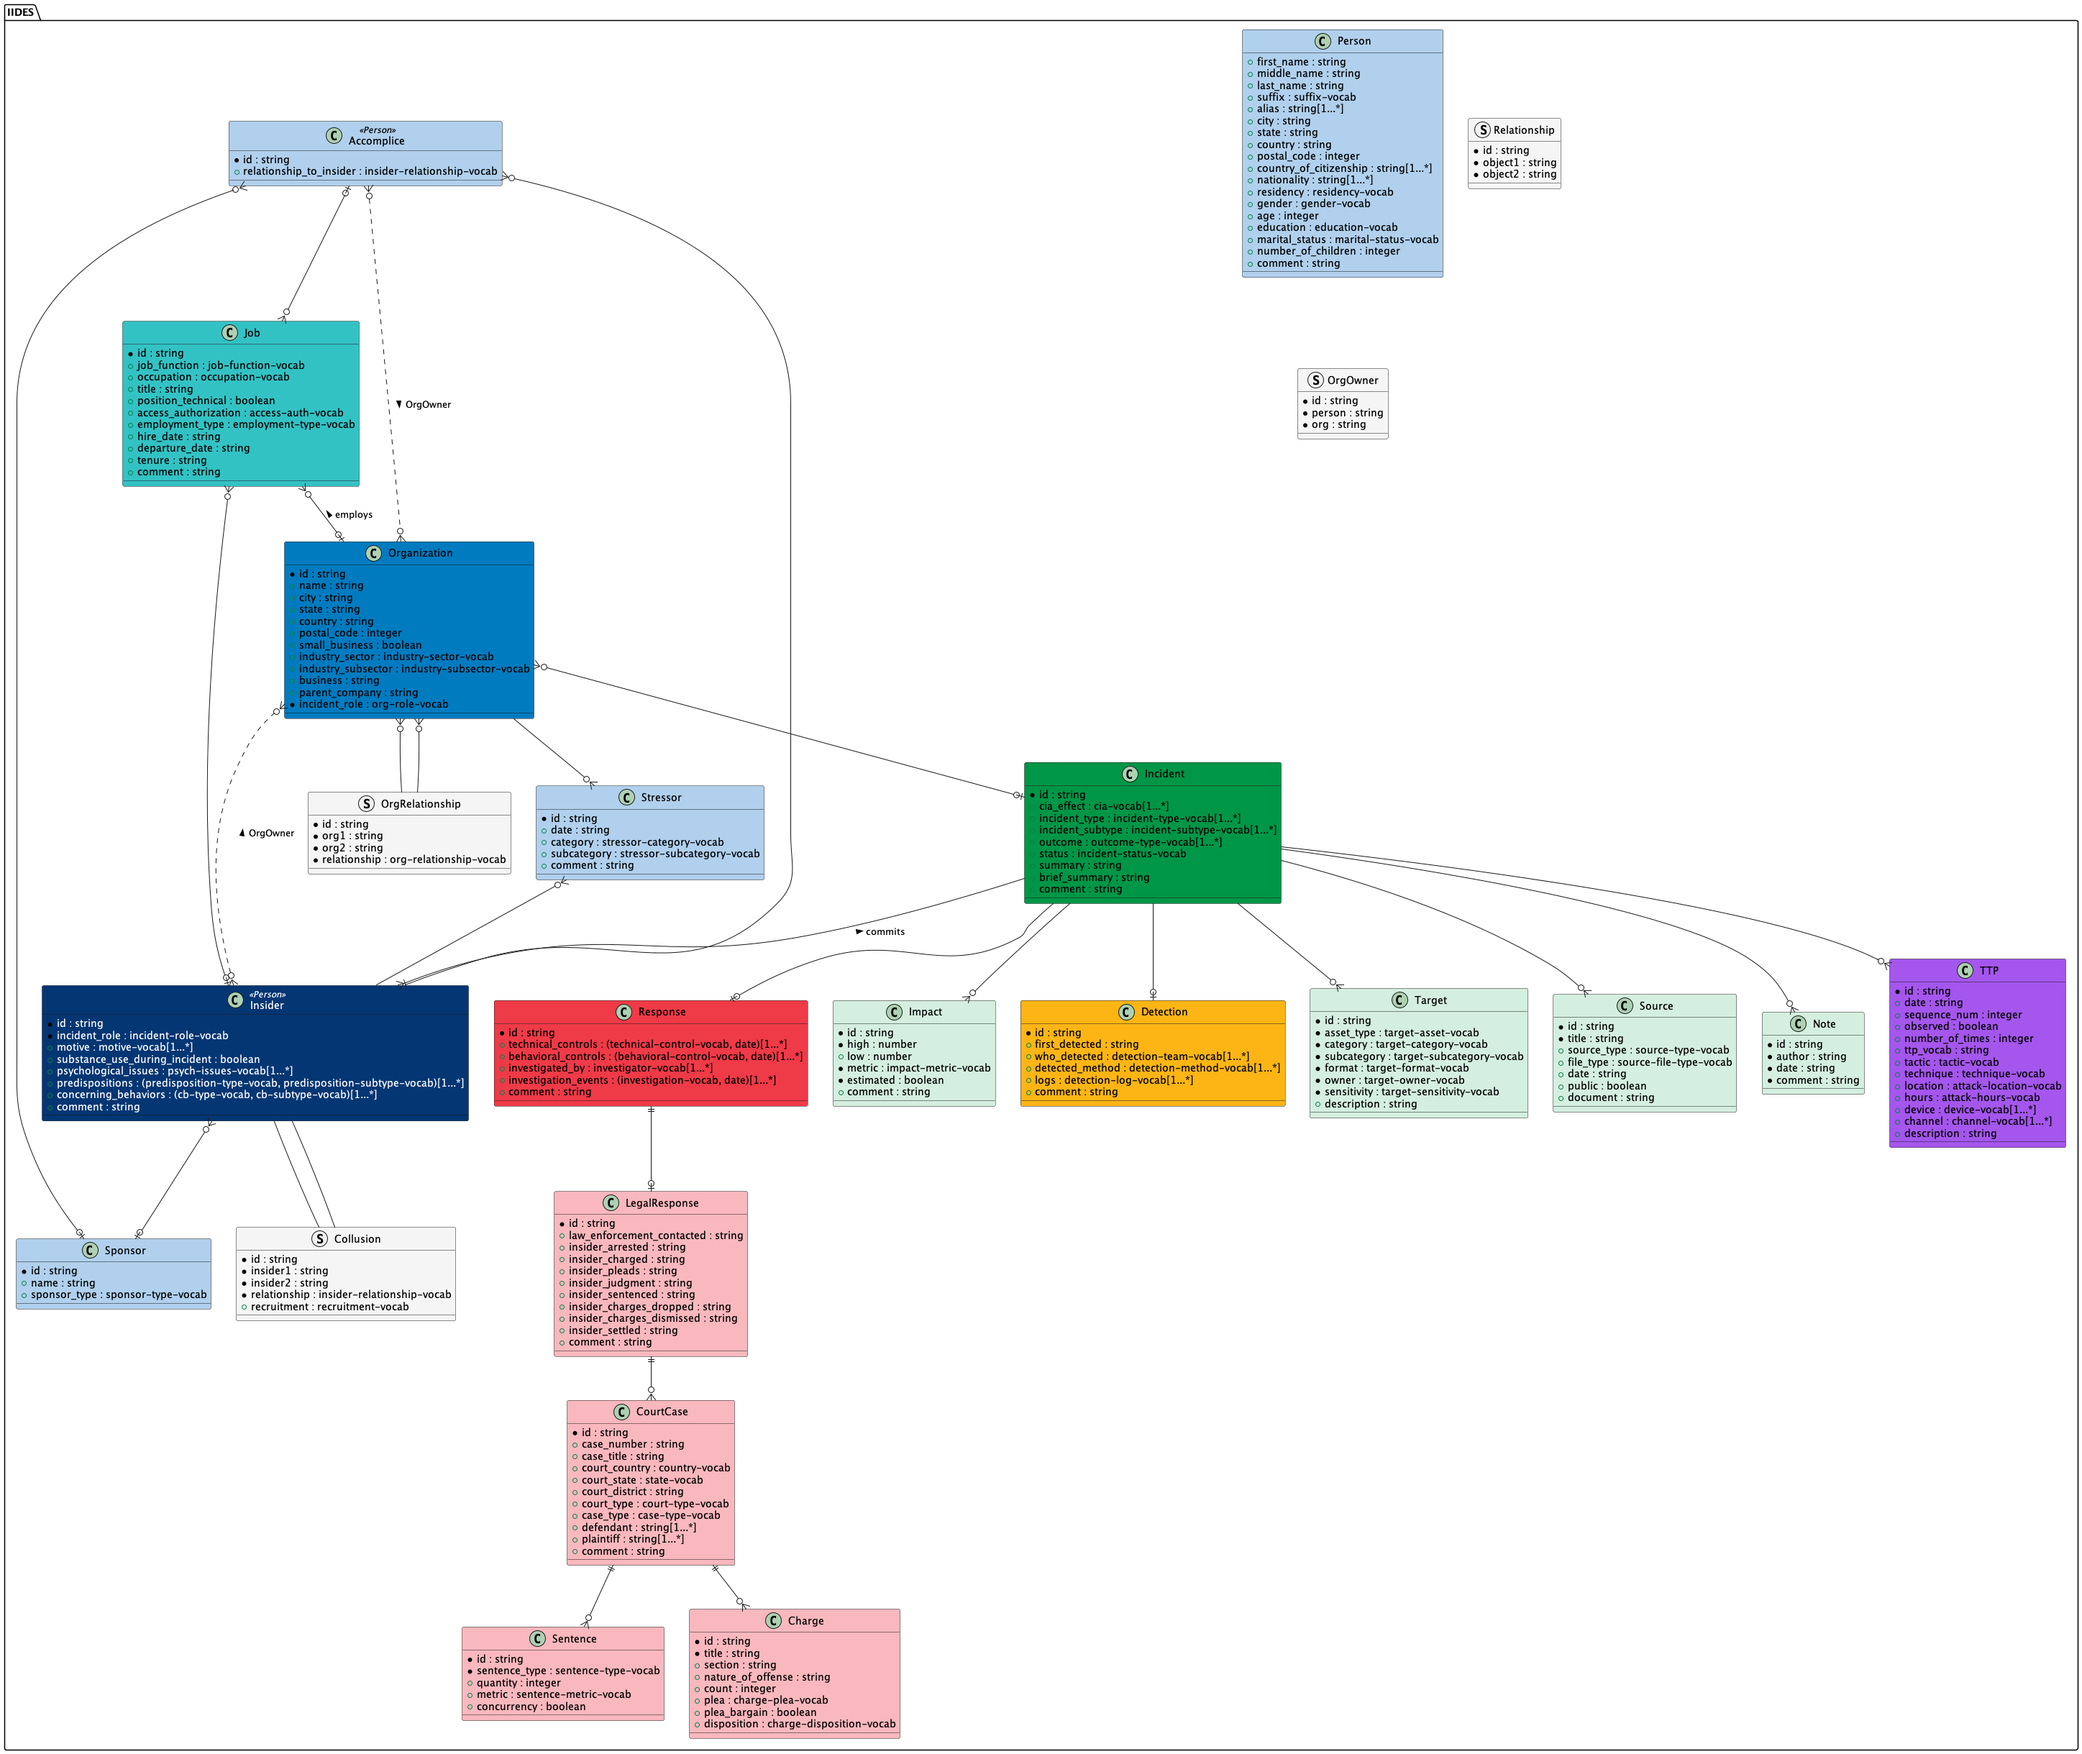
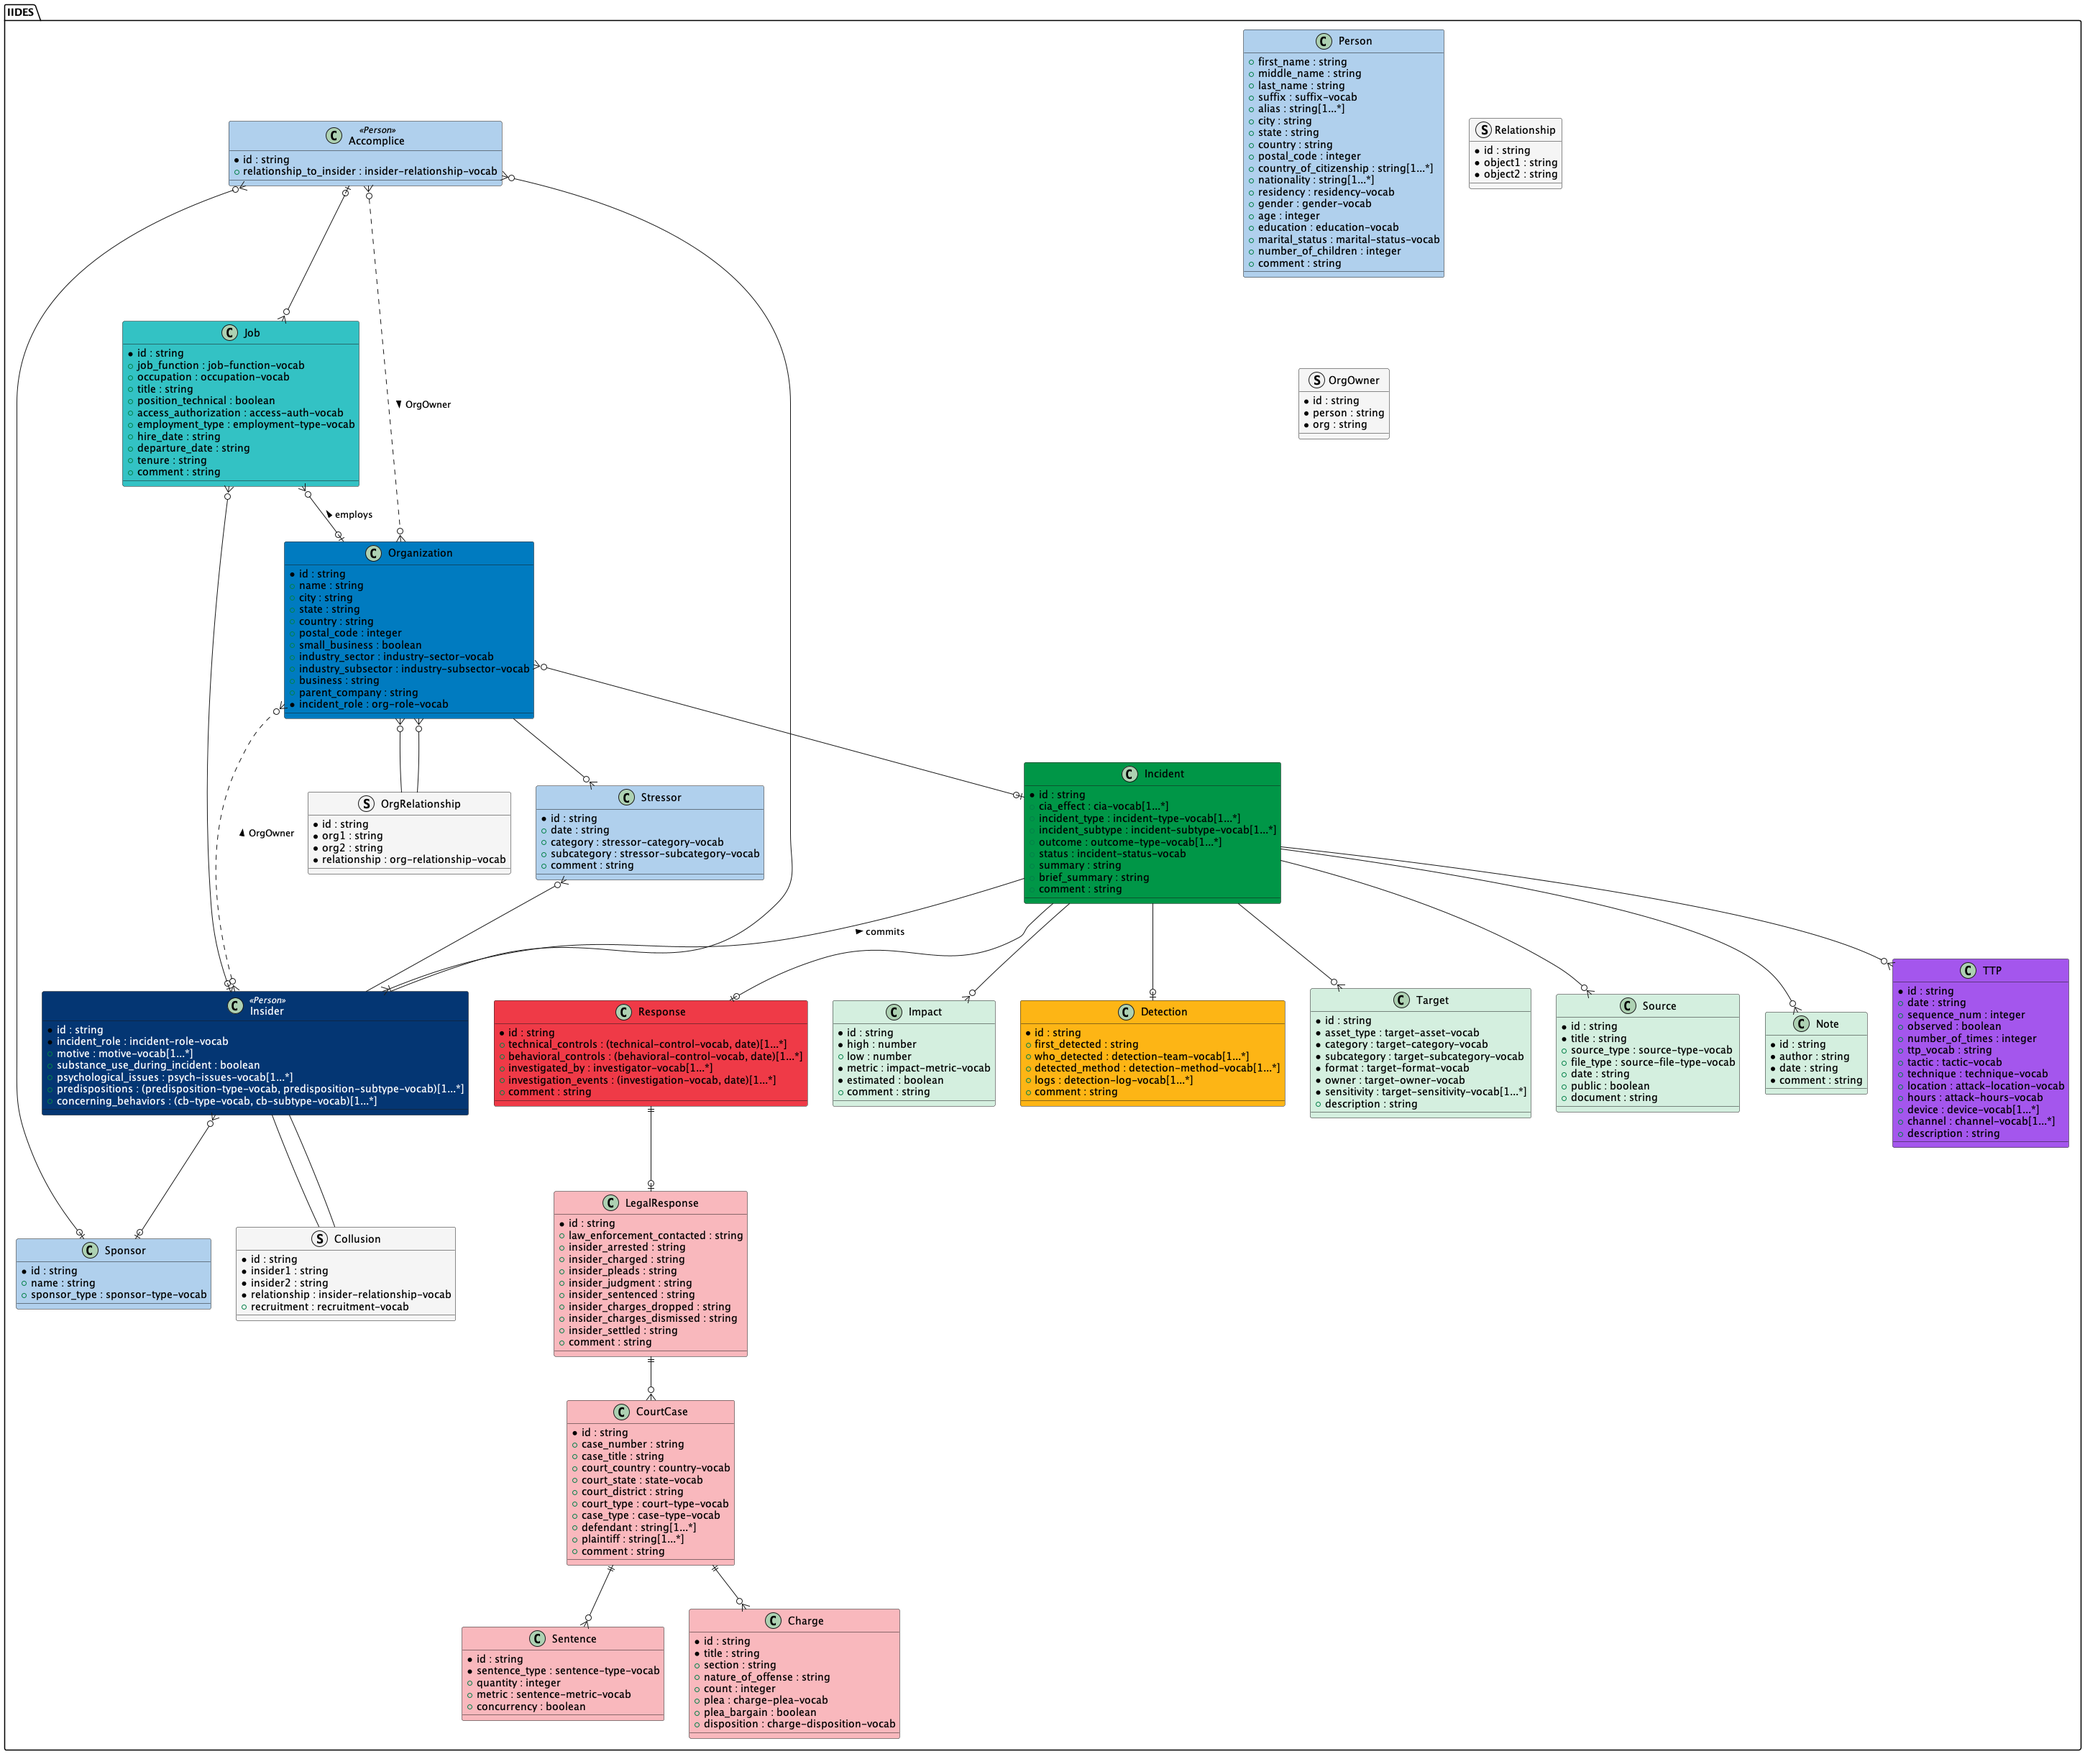
Remove comment field from insider

diff --git a/documentation/objects/insider.md b/documentation/objects/insider.md
@@ -17,7 +17,6 @@ Information about the insider involved in the incident. An incident can have mul
   - One or more tuple values of the format ([predisposition-type-vocab](#predisposition-type-vocab), [predisposition-subtype-vocab](#predisposition-subtype-vocab))
 - **`concerning_behaviors`** *(array)* : Insider's history of past behavior that could indicate future issues.
   - One or more tuple values of the format ([cb-type-vocab](#cb-type-vocab), [cb-subtype-vocab](#cb-subtype-vocab))
-- **`comment`** *(string)* : Comments or clarifications to any of the Insider properties.
 - **Inherits properties from [Person](person)**
 
 ## Vocabularies

diff --git a/notes.md b/notes.md
@@ -5,6 +5,7 @@
 - Write up intro material for white paper
 - Note handling of inexact dates
 - Org: change industory sector/subsector const to NAICS codes (G&N)
+- add deception to TTPs
 
 ## Status
 
